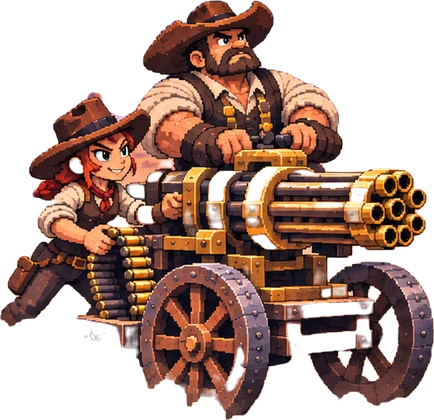
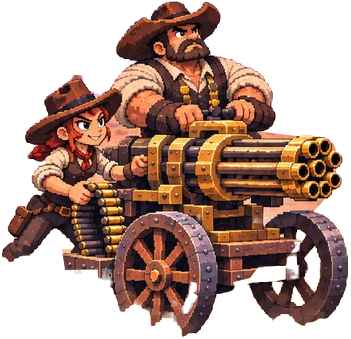
Use the opening portraits for the Gatling Crew and Graveyard Dragon

diff --git a/src/ui/showdown-3d/painted-breath.js b/src/ui/showdown-3d/painted-breath.js
@@ -1,0 +1,79 @@
+import * as T from "three";
+import { PAINTED_SPRITE_ALPHA } from "./graphics/pixel-renderer.js";
+
+const art = typeof __CVW_DRAGON_BREATH__ === "undefined" ? "" : __CVW_DRAGON_BREATH__;
+let texture;
+
+export function createPaintedBreath(parent, camera) {
+  if (!art) return null;
+  if (!texture) {
+    texture = new T.TextureLoader().load(art);
+    texture.colorSpace = T.SRGBColorSpace;
+    texture.minFilter = texture.magFilter = T.NearestFilter;
+    texture.generateMipmaps = false;
+  }
+  const material = new T.MeshBasicMaterial({
+    map: texture, alphaTest: 0.5, side: T.DoubleSide, toneMapped: false,
+  });
+  material.onBeforeCompile = (shader) => {
+    shader.fragmentShader = shader.fragmentShader
+      .replace(
+        "#include <alphatest_fragment>",
+        `#include <alphatest_fragment>
+        float row = floor(vMapUv.y * 22.0);
+        if (vMapUv.x > 0.935 + 0.065 * fract(row * 0.618)) discard;`,
+      )
+      .replace(
+        "#include <opaque_fragment>",
+        `#include <opaque_fragment>\ngl_FragColor.a = ${PAINTED_SPRITE_ALPHA};`,
+      );
+  };
+  const rays = [];
+  const across = new T.Vector3();
+  const screenUp = new T.Vector3();
+  const direction = new T.Vector3();
+  const start = new T.Vector3();
+  const end = new T.Vector3();
+
+  function rayAt(index) {
+    if (rays[index]) return rays[index];
+    const geom = new T.BufferGeometry();
+    geom.setAttribute("position", new T.BufferAttribute(new Float32Array(12), 3));
+    geom.setAttribute("uv", new T.BufferAttribute(new Float32Array(8), 2));
+    geom.setIndex([0, 1, 2, 2, 1, 3]);
+    const ray = new T.Mesh(geom, material);
+    ray.frustumCulled = false;
+    parent.add(ray);
+    rays[index] = ray;
+    return ray;
+  }
+
+  return {
+    clear() {
+      for (const ray of rays) if (ray) ray.visible = false;
+    },
+    draw(index, mouth, target, time) {
+      if (!texture.image || time <= 0 || time >= 2.10) return;
+      const first = T.MathUtils.smoothstep(time, 1.00, 2.10);
+      const last = T.MathUtils.smoothstep(time, 0, 0.95);
+      if (last - first < 0.01) return;
+      direction.subVectors(target, mouth);
+      camera.getWorldDirection(across).cross(direction).normalize().multiplyScalar(1.39);
+      if (across.dot(screenUp.setFromMatrixColumn(camera.matrixWorld, 1)) < 0) across.negate();
+      start.copy(mouth).addScaledVector(direction, first);
+      end.copy(mouth).addScaledVector(direction, last);
+      const ray = rayAt(index);
+      const { position, uv } = ray.geometry.attributes;
+      position.setXYZ(0, start.x - across.x, start.y - across.y, start.z - across.z);
+      position.setXYZ(1, start.x + across.x, start.y + across.y, start.z + across.z);
+      position.setXYZ(2, end.x - across.x, end.y - across.y, end.z - across.z);
+      position.setXYZ(3, end.x + across.x, end.y + across.y, end.z + across.z);
+      uv.setXY(0, first, 0);
+      uv.setXY(1, first, 1);
+      uv.setXY(2, last, 0);
+      uv.setXY(3, last, 1);
+      position.needsUpdate = uv.needsUpdate = true;
+      ray.visible = true;
+    },
+  };
+}

diff --git a/src/ui/showdown-3d/combat-effects.js b/src/ui/showdown-3d/combat-effects.js
@@ -2,6 +2,7 @@ import * as T from "three";
 import { typeOf } from "../../game/showdown/cards.js";
 import { makeCardModel } from "./card-models.js";
 import { zone } from "./layout.js";
+import { createPaintedBreath } from "./painted-breath.js";
 
 const mounted = new Set(["cowboy-mounted-billy", "cowboy-outrider", "wizard-headless-horseman"]);
 const heavy = new Set(["cowboy-covered-wagon", "wizard-bone-wall", "cowboy-gatling-crew"]);
@@ -32,6 +33,7 @@ function body(cardId = "") {
 export function createCombatEffects(parent, pawnAt, bases, camera) {
   const effect = new T.Group();
   parent.add(effect);
+  const dragonBreath = createPaintedBreath(effect, camera);
   const shapes = {
     shard: new T.OctahedronGeometry(0.5),
     flame: new T.ConeGeometry(0.5, 1, 5),
@@ -41,6 +43,7 @@ export function createCombatEffects(parent, pawnAt, bases, camera) {
   const palette = {
     gold: [0xffd27c, 0xffe3af, 0xcb7448],
     green: [0x91e48a, 0xc8f7a8, 0x9b7bb9],
+    dragon: [0x51e5ce, 0xd8ffdf, 0x168aa6],
     violet: [0xb38dd3, 0xe1b1e2, 0x795e9f],
     bone: [0xdccfb6, 0xf6e6ca, 0x9d9089],
   };
@@ -424,6 +427,7 @@ export function createCombatEffects(parent, pawnAt, bases, camera) {
     spare = null;
     active = null;
     lens.visible = false;
+    dragonBreath?.clear();
     for (const n of pool) n.visible = false;
   }
   return {
@@ -451,6 +455,7 @@ export function createCombatEffects(parent, pawnAt, bases, camera) {
       const id = typeOf(step.cardId ?? "");
       const colors = step.cardId?.startsWith("cowboy-") ? palette.gold : palette.green;
       index = 0;
+      dragonBreath?.clear();
       for (const piece of pool) piece.visible = false;
       if (prop) prop.visible = false;
       const a = at(from, kind === "breath" || kind === "sweep" ? "mouth" : "muzzle");
@@ -679,13 +684,16 @@ export function createCombatEffects(parent, pawnAt, bases, camera) {
             time: 0,
           });
           const mouth = at(from, "mouth", 1.31);
+          const breathColors = id === "wizard-dragon" ? palette.dragon : colors;
           targets.forEach((mark, i) => {
             const chest = at(mark, "hit", 1.09);
             const time = (t - start - (kind === "sweep" ? i * 0.046 : 0)) / 0.22;
-            trail(mouth, chest, time, colors, kind === "sweep" ? 13 : 15, kind === "sweep" ? 0.55 : 0.31);
-            coals(chest, age, colors, kind === "sweep" ? 0.83 : 1.16);
-            impactSparks(chest, age, colors, kind === "sweep" ? 0.93 : 1.28);
-            if (age > 0.105 && age < 0.39) flecks(chest, age - 0.08, colors, 4);
+            if (id !== "wizard-dragon" || !dragonBreath)
+              trail(mouth, chest, time, breathColors, kind === "sweep" ? 13 : 15, kind === "sweep" ? 0.55 : 0.31);
+            else dragonBreath.draw(i, mouth, chest, time);
+            coals(chest, age, breathColors, kind === "sweep" ? 0.83 : 1.16);
+            impactSparks(chest, age, breathColors, kind === "sweep" ? 0.93 : 1.28);
+            if (age > 0.105 && age < 0.39) flecks(chest, age - 0.08, breathColors, 4);
           });
           break;
         }

diff --git a/src/ui/showdown-3d/story-actors.js b/src/ui/showdown-3d/story-actors.js
@@ -12,10 +12,10 @@ const illustrated = {
   "cowboy-outrider": { height: 2.39, width: 3.44, hips: 0.49, muzzle: [0.78, 0.62] },
   "cowboy-ranger": { height: 2.55, muzzle: [0.91, 0.76] },
   "cowboy-dynamiter": { height: 2.38, muzzle: [0.86, 0.88] },
-  "cowboy-gatling-crew": { height: 2.19, width: 3.25, hips: 0.41, muzzle: [0.94, 0.56] },
+  "cowboy-gatling-crew": { height: 2.45, width: 3.47, hips: 0.41, muzzle: [0.95, 0.52], exactPaint: true },
   "cowboy-captured-wraith": { height: 2.66, hips: 0.53 },
   "cowboy-captured-dragon": { height: 2.93, width: 3.53, hips: 0.39, mouth: [0.91, 0.74] },
-  "wizard-dragon": { height: 2.98, width: 3.60, hips: 0.42, mouth: [0.38, 0.57] },
+  "wizard-dragon": { height: 3.16, width: 4.23, hips: 0.42, mouth: [0.456, 0.60], exactPaint: true },
   "wizard-wizard": { height: 2.79, "staff-tip": [0.12, 0.93] },
   "wizard-lantern-wraith": { height: 2.60, width: 2.83, hips: 0.53 },
   "wizard-raven-familiar": { height: 1.58, width: 2.23, hips: 0.46 },
@@ -123,13 +123,15 @@ export function storyActor(cardId, holder, model, camera) {
   if (!height || (!art && !(type === "cowboy-billy" ? billy : source))) return null;
   const hips = art?.hips ?? 0.49;
   const bend = { value: 0 };
-  const shadow = { value: art ? 0.30 : 0 };
+  const painted = { value: Boolean(art) };
+  const shadow = { value: art && !art.exactPaint ? 0.30 : 0 };
   const material = new T.SpriteMaterial({ alphaTest: art ? 0.38 : 0.52, transparent: false, toneMapped: false });
   material.onBeforeCompile = (shader) => {
     shader.uniforms.hipBend = bend;
+    shader.uniforms.actorPainted = painted;
     shader.uniforms.actorShadow = shadow;
     // The illustrated cutouts arrive with brighter midtones than the painted pose sheets.
-    shader.fragmentShader = "uniform float actorShadow;\n" + shader.fragmentShader
+    shader.fragmentShader = "uniform bool actorPainted;\nuniform float actorShadow;\n" + shader.fragmentShader
       .replace(
         "#include <map_fragment>",
         `#include <map_fragment>
@@ -139,7 +141,7 @@ export function storyActor(cardId, holder, model, camera) {
       .replace(
         "#include <opaque_fragment>",
         `#include <opaque_fragment>
-        if (actorShadow > 0.0) gl_FragColor.a = ${PAINTED_SPRITE_ALPHA};`,
+        if (actorPainted) gl_FragColor.a = ${PAINTED_SPRITE_ALPHA};`,
       );
     shader.vertexShader = "uniform float hipBend;\n" + shader.vertexShader.replace(
       "vec2 rotatedPosition;",

diff --git a/src/ui/showdown-3d/README.md b/src/ui/showdown-3d/README.md
@@ -79,6 +79,11 @@ ChatGPT-generated sheets. The transparent actors in `assets/scenes/actors/`
 use those same paintings. Sheriff, Skeleton and Billy use their existing
 illustrated idle and strike frames. All actors are cutouts on the 3D board.
 
+The Gatling Crew and Graveyard Dragon use the original colors from the
+opening portraits. Their cutouts keep both gunners, the brass gun carriage,
+and the dragon's open jaw, claws and capstones. The dragon's cyan breath is
+clipped from that same painting and aimed from its mouth at the event target.
+
 Singularity lifts regular troops by the hips before reeling them in faster as
 they approach the vortex. Dragons brace and move a shorter distance. The combat
 timeline still applies orb loss at contact and moves defeated cards to
